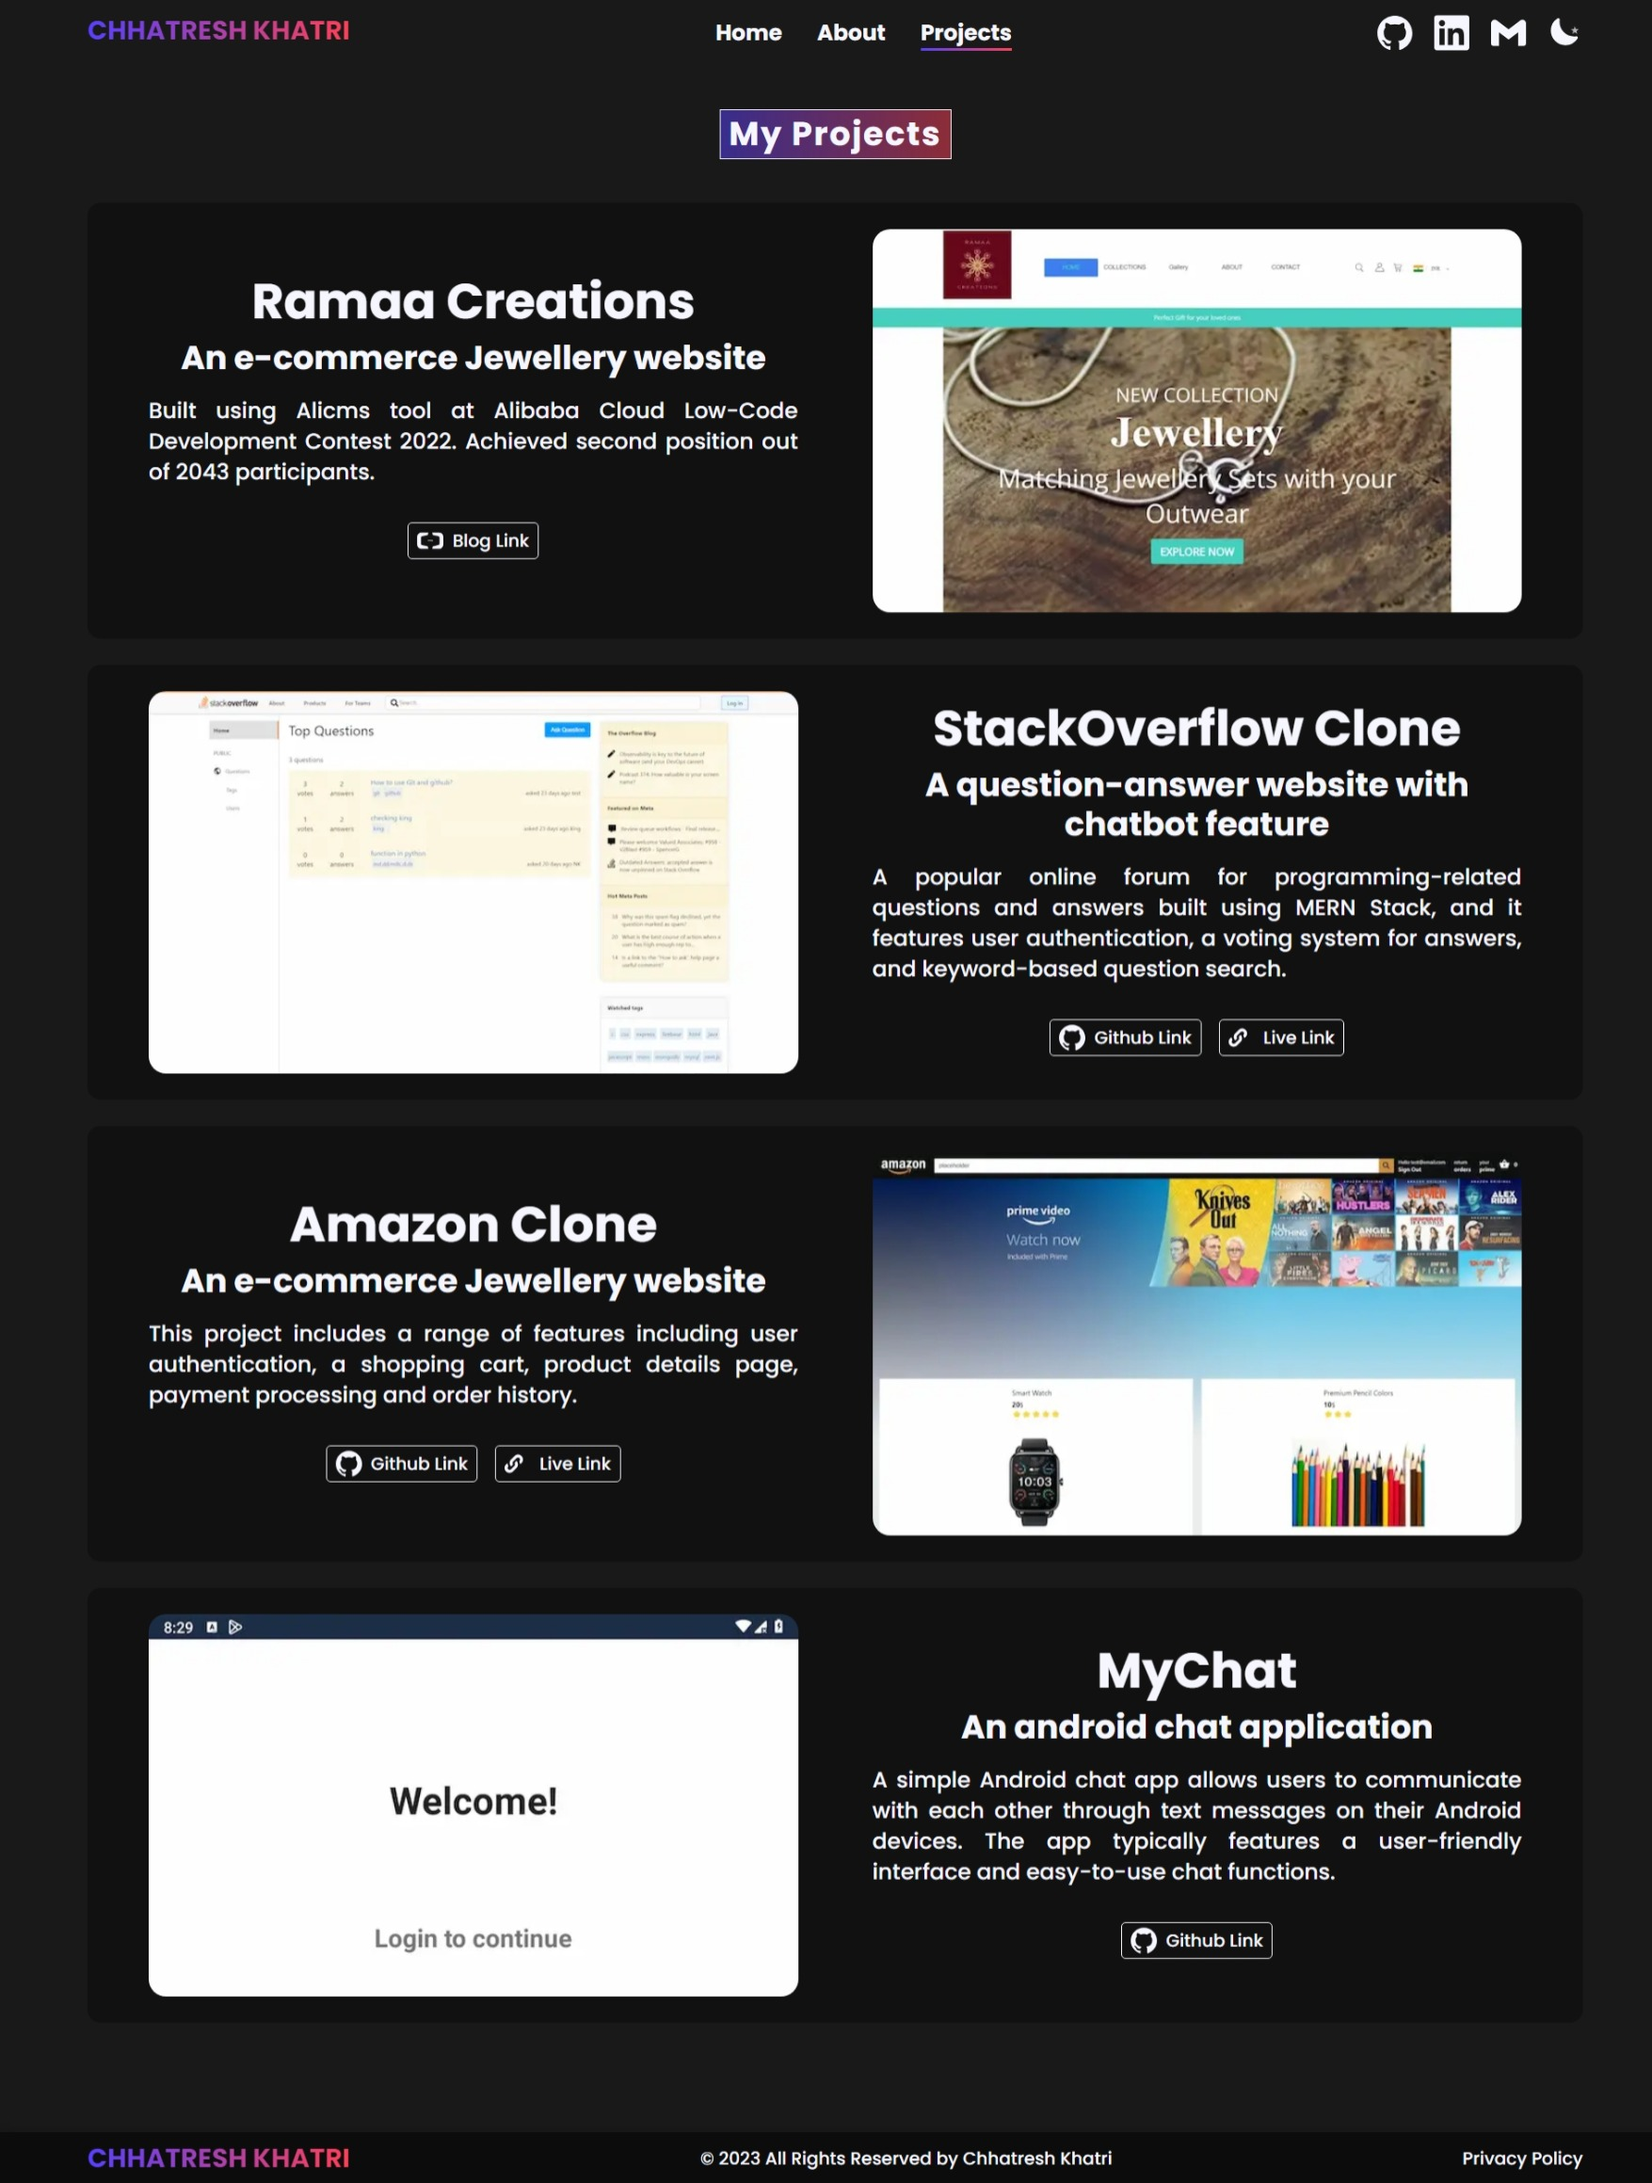
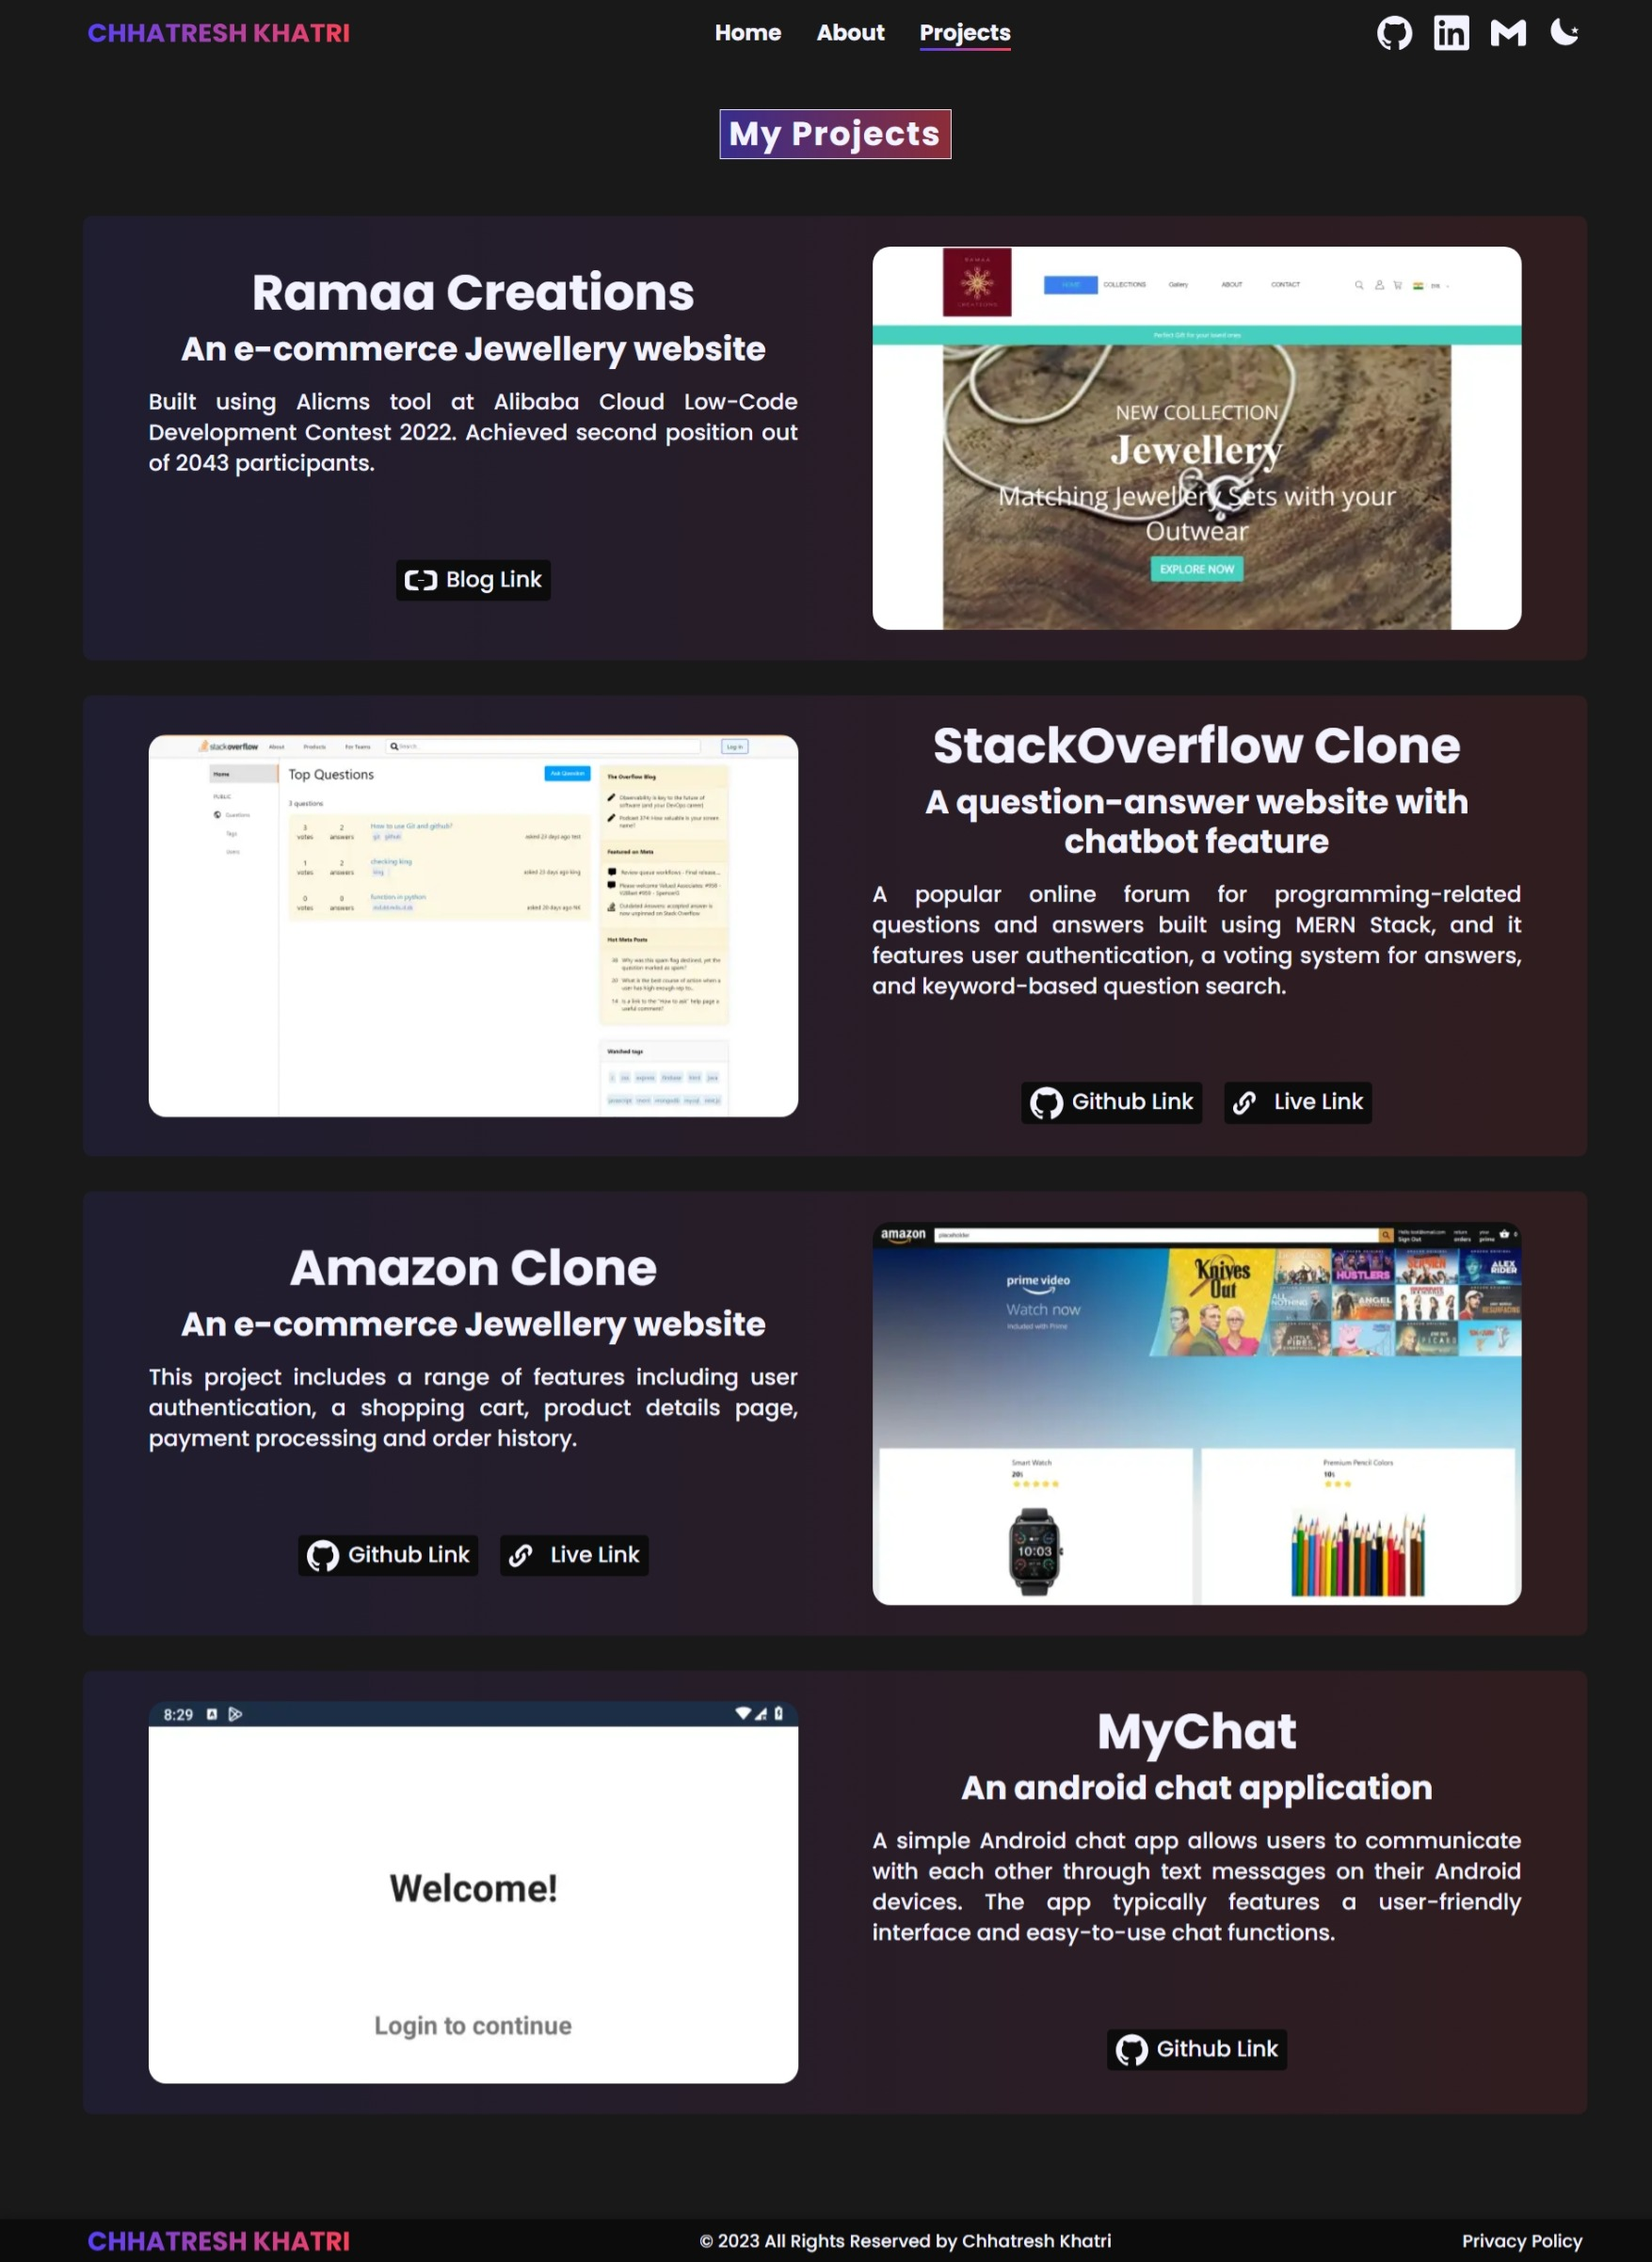
skills alignment + new ui update

diff --git a/app/components/ProjectHolder.tsx b/app/components/ProjectHolder.tsx
@@ -41,7 +41,7 @@ const ProjectHolder: React.FC<CustomProps> = ({
             <p className="text-xl mt-4 text-justify">{projectContent} </p>
             <div className="mt-8 flex items-center justify-center space-x-4 text-md xxs:text-xl">
               {link1 ? (
-                <div className="rounded mt-10 p-[2px] flex items-center justify-center bg-gradient-to-r hover:from-darkCk/50 hover:to-lightCk/50">
+                <button className="rounded mt-10 p-[2px] flex items-center justify-center bg-gradient-to-r hover:from-darkCk/50 hover:to-lightCk/50">
                   <Link
                     href={link1}
                     target="_blank"
@@ -50,12 +50,12 @@ const ProjectHolder: React.FC<CustomProps> = ({
                     {link1Icon}
                     {link1Type}
                   </Link>
-                </div>
+                </button>
               ) : (
                 ""
               )}
               {link2 ? (
-                <div className="rounded mt-10 p-[2px] flex items-center justify-center bg-gradient-to-r hover:from-darkCk/50 hover:to-lightCk/50">
+                <button className="rounded mt-10 p-[2px] flex items-center justify-center bg-gradient-to-r hover:from-darkCk/50 hover:to-lightCk/50">
                   <Link
                     href={link2}
                     target="_blank"
@@ -64,7 +64,7 @@ const ProjectHolder: React.FC<CustomProps> = ({
                     {link2Icon}
                     {link2Type}
                   </Link>
-                </div>
+                </button>
               ) : (
                 ""
               )}

diff --git a/app/page.tsx b/app/page.tsx
@@ -30,7 +30,7 @@ export default function Home() {
               and challenges.
             </p>
             <div className="flex space-x-4 text-md xxs:text-xl justify-center items-center ">
-              <div className="rounded mt-10 p-[2px] flex items-center justify-center bg-gradient-to-r hover:from-darkCk/50 hover:to-lightCk/50">
+              <button className="rounded mt-10 p-[2px] flex items-center justify-center bg-gradient-to-r hover:from-darkCk/50 hover:to-lightCk/50">
                 <Link
                   href={`https://drive.google.com/file/d/1i_gAK3PxDoMok4g5XEh0KTaD7Dm-JRR_/view?usp=sharing`}
                   target="_blank"
@@ -39,8 +39,8 @@ export default function Home() {
                   <ResumeIcon className="mr-2" />
                   Resume
                 </Link>
-              </div>
-              <div className="rounded mt-10 p-[2px] flex items-center justify-center bg-gradient-to-r hover:from-darkCk/50 hover:to-lightCk/50">
+              </button>
+              <button className="rounded mt-10 p-[2px] flex items-center justify-center bg-gradient-to-r hover:from-darkCk/50 hover:to-lightCk/50">
                 <Link
                   href={`https://social.chhatreshkhatri.com/`}
                   target="_blank"
@@ -49,7 +49,7 @@ export default function Home() {
                   <SocialIcon className="mr-2" />
                   Social Links
                 </Link>
-              </div>
+              </button>
             </div>
           </div>
         </div>

diff --git a/app/about/page.tsx b/app/about/page.tsx
@@ -47,8 +47,8 @@ export const metadata = {
   },
 };
 const CustomImage = ({ SRC, title }: { SRC: string; title: string }) => {
-  return <Image title={title} priority src={SRC} alt={title} className={`h-[35px] w-auto m-1 xs:m-2 xs:h-[45px] `} />;
-};
+  return <Image title={title} priority src={SRC} alt={title} className={`h-[45px] w-[110px] xs:w-auto m-1 xs:m-2 `} />;
+}
 
 export default function Page() {
   return (
